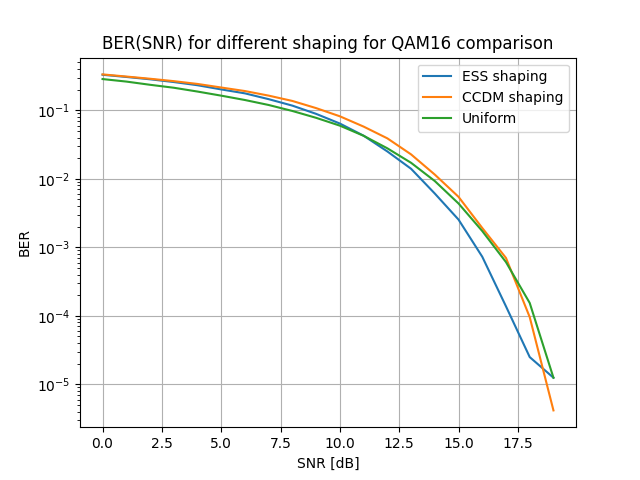
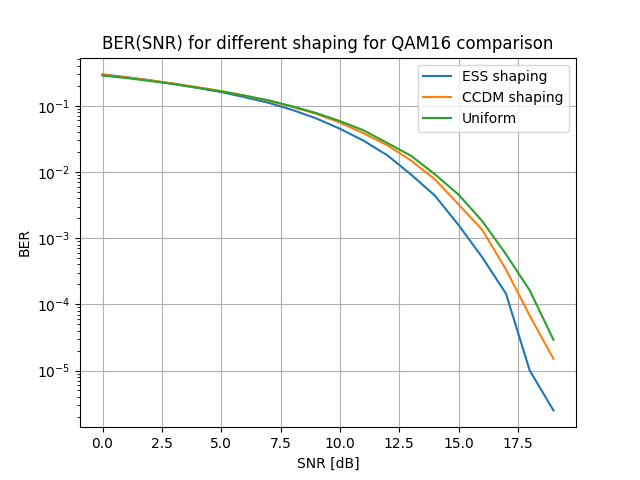
Fixed the shaping graphs

diff --git a/optics/first_hw/hw.py b/optics/first_hw/hw.py
@@ -235,7 +235,7 @@ def qam16_bit_shaping(bits_amount, snr, table_fun):
     # print(f"got {new_bits}, ampls notted: {np.logical_not(new_bits[1::2]).astype(int)}")
     recv = deshape_bits(demodulated, table_fun())
     # breakpoint()
-    return eval_ber(bits, recv)
+    return eval_ber(demodulated, new_bits)
 
 def show_constellations(mapper_arr, bit_depth, constellation_name):
     point_amount = int(2 ** bit_depth)
